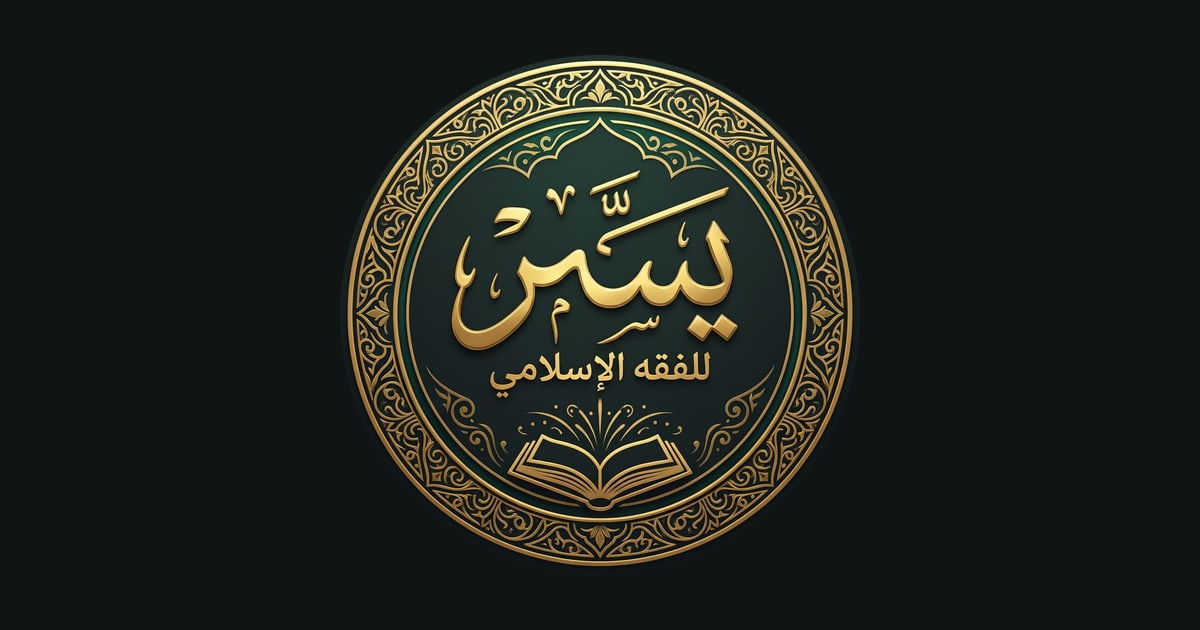
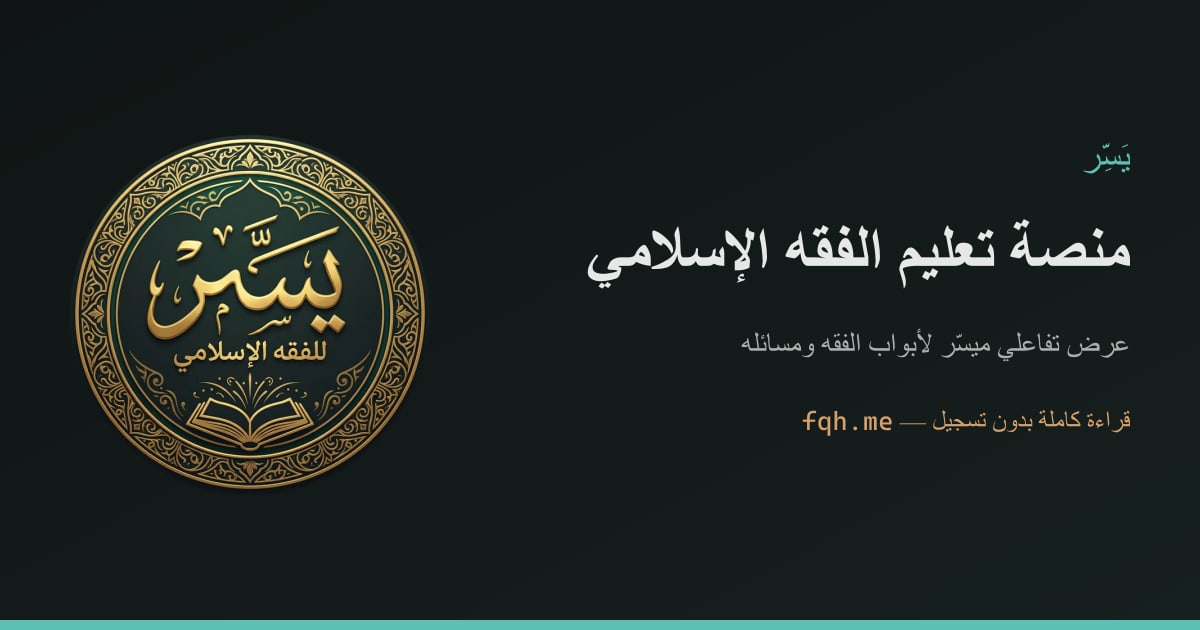
fix(seo,guest): توليد og-image بهوية يَسِّر والشعار الجديد وإضافة اختبارات GuestLoginPrompt وتحسين إعادة التنفيذ

Changed region(s): [[0.0617, 0.0905, 0.9558, 0.9048], [0.0, 0.9651, 1.0, 1.0], [0.8942, 0.2413, 0.9558, 0.2714]]

diff --git a/src/Components/UI/GuestLoginPrompt.test.tsx b/src/Components/UI/GuestLoginPrompt.test.tsx
@@ -1,0 +1,121 @@
+// @vitest-environment jsdom
+import { describe, it, expect, vi, beforeEach, afterEach } from 'vitest';
+import { render, screen, act, cleanup } from '@testing-library/react';
+import GuestLoginPrompt from './GuestLoginPrompt';
+import { requireLogin, __resetGuestPromptForTests, setPendingAction, executePendingAction } from '../../utils/guestPrompt';
+
+describe('GuestLoginPrompt', () => {
+  beforeEach(() => {
+    vi.useFakeTimers({ shouldAdvanceTime: true });
+    __resetGuestPromptForTests();
+  });
+
+  afterEach(() => {
+    cleanup();
+    vi.useRealTimers();
+    vi.restoreAllMocks();
+  });
+
+  it('لا يعرض شيئًا في البداية قبل طلب تسجيل الدخول', () => {
+    const onOpenLogin = vi.fn();
+    const { container } = render(<GuestLoginPrompt onOpenLogin={onOpenLogin} />);
+    expect(container.firstChild).toBeNull();
+  });
+
+  it('يظهر البوب عند استدعاء requireLogin مع نص الإجراء الافتراضي', () => {
+    const onOpenLogin = vi.fn();
+    const { container } = render(<GuestLoginPrompt onOpenLogin={onOpenLogin} />);
+
+    act(() => {
+      requireLogin({ action: 'المفضلة' });
+    });
+
+    const pop = container.querySelector('.guest-pop');
+    expect(pop).not.toBeNull();
+    expect(pop?.getAttribute('data-placement')).toBe('bottom');
+    expect(screen.getByText('يلزم تسجيل الدخول')).toBeDefined();
+    expect(screen.getByText(/سجّل الدخول لحفظ المفضلة ومزامنتها على كل أجهزتك/)).toBeDefined();
+  });
+
+  it('يعرض الرسالة المخصصة عند تمرير message', () => {
+    const onOpenLogin = vi.fn();
+    render(<GuestLoginPrompt onOpenLogin={onOpenLogin} />);
+
+    act(() => {
+      requireLogin({ message: 'تنبيه مخصص للزائر' });
+    });
+
+    expect(screen.getByText('تنبيه مخصص للزائر')).toBeDefined();
+  });
+
+  it('زر «تسجيل الدخول» يستدعي onOpenLogin ويُخفي التنبيه', () => {
+    const onOpenLogin = vi.fn();
+    const { container } = render(<GuestLoginPrompt onOpenLogin={onOpenLogin} />);
+
+    act(() => {
+      requireLogin({ action: 'الملاحظات' });
+    });
+
+    const loginBtn = screen.getByRole('button', { name: 'تسجيل الدخول' });
+    act(() => {
+      loginBtn.click();
+    });
+
+    expect(onOpenLogin).toHaveBeenCalledTimes(1);
+    expect(container.firstChild).toBeNull();
+  });
+
+  it('زر الإغلاق (X) يُخفي التنبيه ويمسح العملية المعلقة', () => {
+    const onOpenLogin = vi.fn();
+    const retryFn = vi.fn();
+    const { container } = render(<GuestLoginPrompt onOpenLogin={onOpenLogin} />);
+
+    act(() => {
+      requireLogin({ action: 'الفوائد', retry: retryFn });
+    });
+
+    const dismissBtn = screen.getByRole('button', { name: 'إغلاق التنبيه' });
+    act(() => {
+      dismissBtn.click();
+    });
+
+    expect(container.firstChild).toBeNull();
+    // التأكد من مسح العملية المعلقة
+    executePendingAction();
+    expect(retryFn).not.toHaveBeenCalled();
+  });
+
+  it('يختفي التنبيه تلقائيًا بعد مهلة AUTO_HIDE_MS (6500ms)', () => {
+    const onOpenLogin = vi.fn();
+    const { container } = render(<GuestLoginPrompt onOpenLogin={onOpenLogin} />);
+
+    act(() => {
+      requireLogin({ action: 'علامة الوقف' });
+    });
+    expect(container.querySelector('.guest-pop')).not.toBeNull();
+
+    // تقديم الوقت لأقل من 6500ms
+    act(() => {
+      vi.advanceTimersByTime(4000);
+    });
+    expect(container.querySelector('.guest-pop')).not.toBeNull();
+
+    // تقديم الوقت لتجاوز 6500ms
+    act(() => {
+      vi.advanceTimersByTime(2600);
+    });
+    expect(container.firstChild).toBeNull();
+  });
+
+  it('يدعم تنفيذ العملية المعلقة عند تسجيل الدخول بنجاح', () => {
+    const retryFn = vi.fn();
+    setPendingAction(retryFn);
+
+    executePendingAction();
+    expect(retryFn).toHaveBeenCalledTimes(1);
+
+    // استدعاء ثانٍ لا ينفذها مرة أخرى
+    executePendingAction();
+    expect(retryFn).toHaveBeenCalledTimes(1);
+  });
+});

diff --git a/src/utils/guestPrompt.ts b/src/utils/guestPrompt.ts
@@ -13,19 +13,54 @@ export interface GuestPromptDetail {
   action?: string;
   /** نص مخصّص يتجاوز الافتراضي */
   message?: string;
+  /** عملية معلقة لإعادة تنفيذها تلقائيًا بعد نجاح تسجيل الدخول */
+  retry?: () => void;
 }
 
 const EVENT = 'fqh:require-login';
 
 let lastPromptAt = 0;
-// لا نُغرق المستخدم: ضغطات متتالية بنفس النية تُظهر بوبًا واحدًا
-const THROTTLE_MS = 1200;
+let lastAction = '';
+let pendingRetry: (() => void) | null = null;
+// خانق قصير لنفس الإجراء لمنع النقر العشوائي المزدوج (400ms بدل 1200ms)
+const THROTTLE_MS = 400;
 
-/** ينادي البوب. throttled لأن ضغط زر المفضلة سريعًا لا يعني تحذيرين. */
+/** تسجيل عملية معلقة للتنفيذ بعد تسجيل الدخول */
+export function setPendingAction(fn: (() => void) | null): void {
+  pendingRetry = fn;
+}
+
+/** تنفيذ العملية المعلقة بعد نجاح تسجيل الدخول */
+export function executePendingAction(): void {
+  if (pendingRetry) {
+    const fn = pendingRetry;
+    pendingRetry = null;
+    try {
+      fn();
+    } catch {
+      /* ignore */
+    }
+  }
+}
+
+/** مسح العملية المعلقة */
+export function clearPendingAction(): void {
+  pendingRetry = null;
+}
+
+/** ينادي البوب. يُظهر التنبيه فورًا لو كان إجراءً مختلفًا، ويخنق النقر المزدوج على نفس الزر */
 export function requireLogin(detail: GuestPromptDetail = {}): void {
   const now = Date.now();
-  if (now - lastPromptAt < THROTTLE_MS) return;
+  const action = detail.action ?? '';
+  // إذا كان نفس الإجراء مكررًا خلال نافذة الخانق، نتجاهله
+  if (action === lastAction && now - lastPromptAt < THROTTLE_MS) return;
   lastPromptAt = now;
+  lastAction = action;
+
+  if (typeof detail.retry === 'function') {
+    setPendingAction(detail.retry);
+  }
+
   try {
     window.dispatchEvent(new CustomEvent<GuestPromptDetail>(EVENT, { detail }));
   } catch {
@@ -51,4 +86,6 @@ export function onRequireLogin(handler: (detail: GuestPromptDetail) => void): ()
 // للاختبارات: لا throttle بين الحالات
 export function __resetGuestPromptForTests(): void {
   lastPromptAt = 0;
+  lastAction = '';
+  pendingRetry = null;
 }

diff --git a/src/utils/guestPrompt.test.ts b/src/utils/guestPrompt.test.ts
@@ -1,6 +1,6 @@
 // @vitest-environment jsdom
 import { describe, it, expect, vi, beforeEach } from 'vitest';
-import { requireLogin, onRequireLogin, __resetGuestPromptForTests } from './guestPrompt';
+import { requireLogin, onRequireLogin, __resetGuestPromptForTests, setPendingAction, executePendingAction, clearPendingAction } from './guestPrompt';
 
 describe('guestPrompt', () => {
   beforeEach(() => {
@@ -17,7 +17,7 @@ describe('guestPrompt', () => {
     unsub();
   });
 
-  it('يخنق (throttle) النداءات المتتالية السريعة', () => {
+  it('يخنق (throttle) النداءات المتتالية السريعة لنفس الإجراء', () => {
     const handler = vi.fn();
     const unsub = onRequireLogin(handler);
 
@@ -25,10 +25,30 @@ describe('guestPrompt', () => {
     requireLogin({ action: 'المفضلة' });
     expect(handler).toHaveBeenCalledTimes(1);
 
-    __resetGuestPromptForTests();
+    unsub();
+  });
+
+  it('يُطلق فورًا دون خنق إذا تغيّر الإجراء (مثل مفضلة ثم ملاحظة)', () => {
+    const handler = vi.fn();
+    const unsub = onRequireLogin(handler);
+
+    requireLogin({ action: 'المفضلة' });
     requireLogin({ action: 'الملاحظات' });
     expect(handler).toHaveBeenCalledTimes(2);
 
     unsub();
+  });
+
+  it('يدعم تسجيل واستدعاء ومسح pendingAction', () => {
+    const fn = vi.fn();
+    setPendingAction(fn);
+    executePendingAction();
+    expect(fn).toHaveBeenCalledTimes(1);
+
+    const fn2 = vi.fn();
+    setPendingAction(fn2);
+    clearPendingAction();
+    executePendingAction();
+    expect(fn2).not.toHaveBeenCalled();
   });
 });

diff --git a/src/App.tsx b/src/App.tsx
@@ -7,7 +7,7 @@ import MobileBottomNav from './Components/Navigation/MobileBottomNav';
 import SplashScreen   from './Components/UI/SplashScreen';
 import UpdateBanner   from './Components/UI/UpdateBanner'
 import GuestLoginPrompt from './Components/UI/GuestLoginPrompt'
-import { requireLogin } from './utils/guestPrompt';
+import { requireLogin, executePendingAction } from './utils/guestPrompt';
 import LoginModal     from './Components/Auth/LoginModal';
 import AppLayout      from './Components/Layout/AppLayout';
 import { AppProvider } from './Components/Layout/AppContext';
@@ -363,7 +363,7 @@ function App() {
       {showOnboarding && <OnboardingSlides onDone={() => setShowOnboarding(false)} />}
 
       <SearchModal isOpen={isSearchOpen} onClose={() => setIsSearchOpen(false)} data={lessons} onSelect={handleSearchResultSelect} />
-      <LoginModal isOpen={isLoginOpen} onClose={() => setIsLoginOpen(false)} onSuccess={() => { if (currentView === 'hero') setCurrentView('books'); }} />
+      <LoginModal isOpen={isLoginOpen} onClose={() => setIsLoginOpen(false)} onSuccess={() => { executePendingAction(); if (currentView === 'hero') setCurrentView('books'); }} />
       <ShortcutsHelpModal open={showShortcutsHelp} onClose={() => setShowShortcutsHelp(false)} />
 
       {currentView === 'hero' ? (

diff --git a/src/Components/UI/GuestLoginPrompt.tsx b/src/Components/UI/GuestLoginPrompt.tsx
@@ -1,6 +1,6 @@
 import { useEffect, useState } from 'react';
 import { FiLogIn, FiX } from 'react-icons/fi';
-import { onRequireLogin } from '../../utils/guestPrompt';
+import { onRequireLogin, clearPendingAction } from '../../utils/guestPrompt';
 import type { GuestPromptDetail } from '../../utils/guestPrompt';
 
 // بوب «يلزم تسجيل الدخول» — أسفل الشاشة، بنفس لغة بوب التحديث.
@@ -49,7 +49,7 @@ const GuestLoginPrompt = ({ onOpenLogin }: Props) => {
         <button
           type="button"
           className="guest-pop-dismiss"
-          onClick={() => setDetail(null)}
+          onClick={() => { setDetail(null); clearPendingAction(); }}
           aria-label="إغلاق التنبيه"
           title="لاحقًا"
         >
